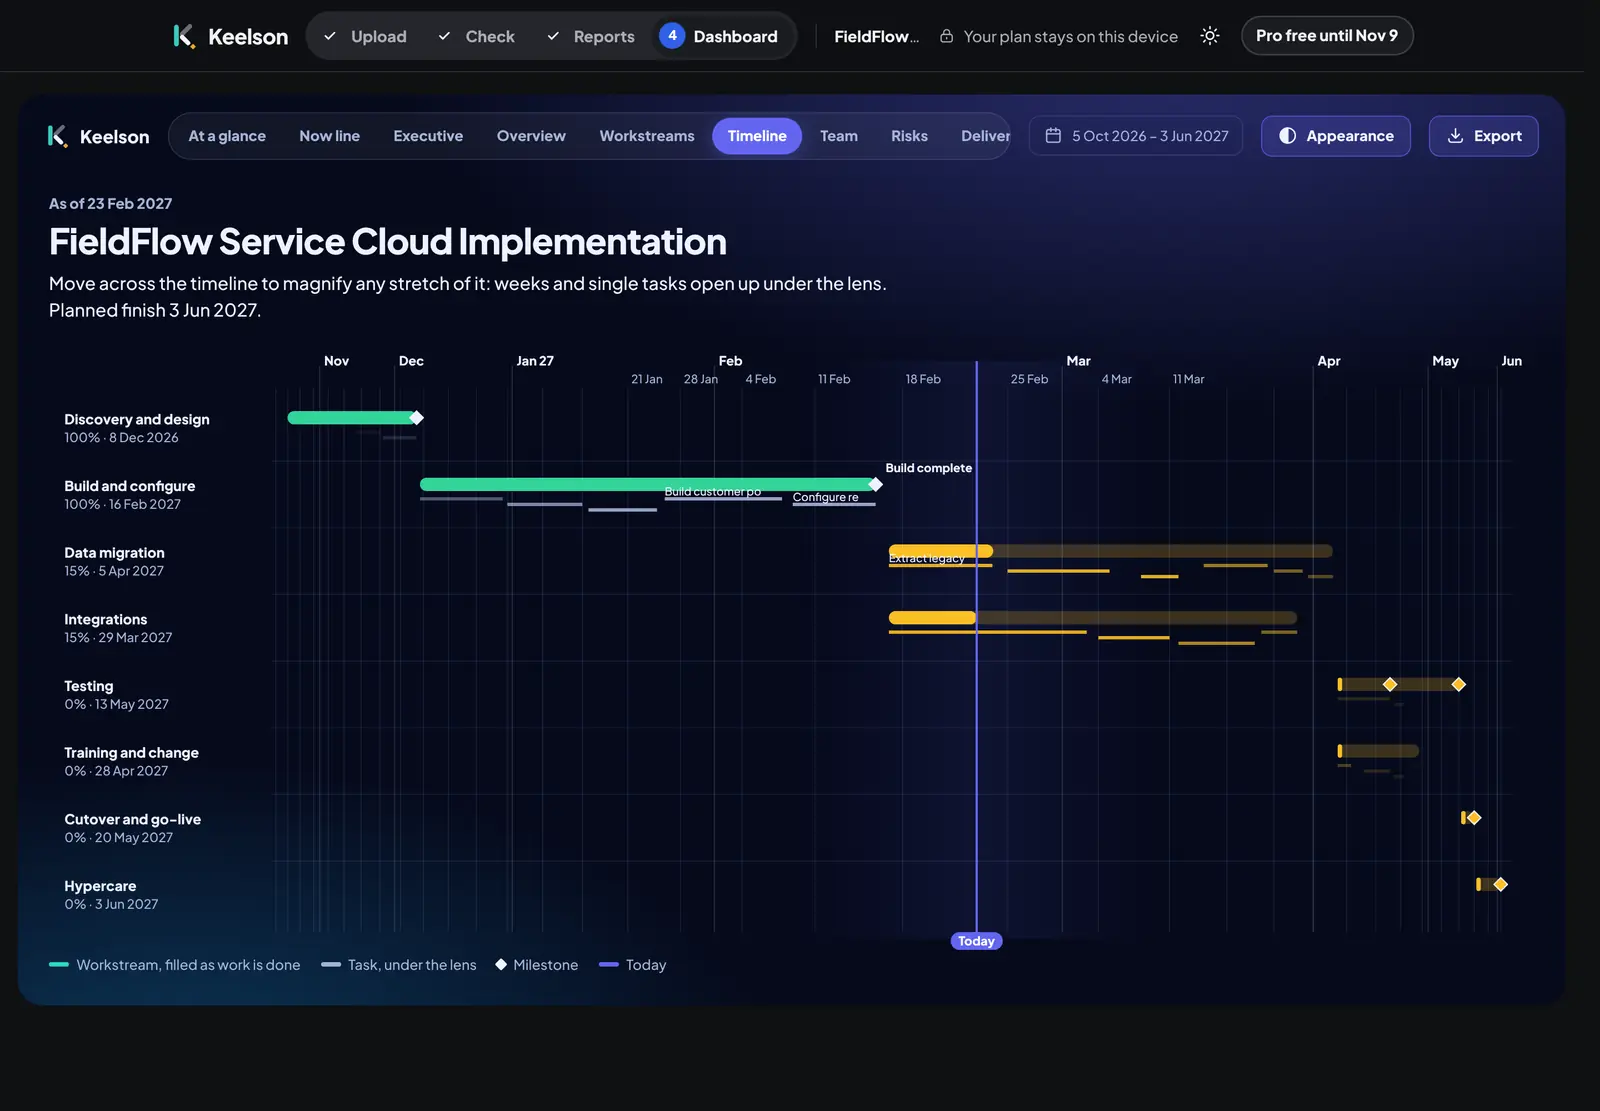
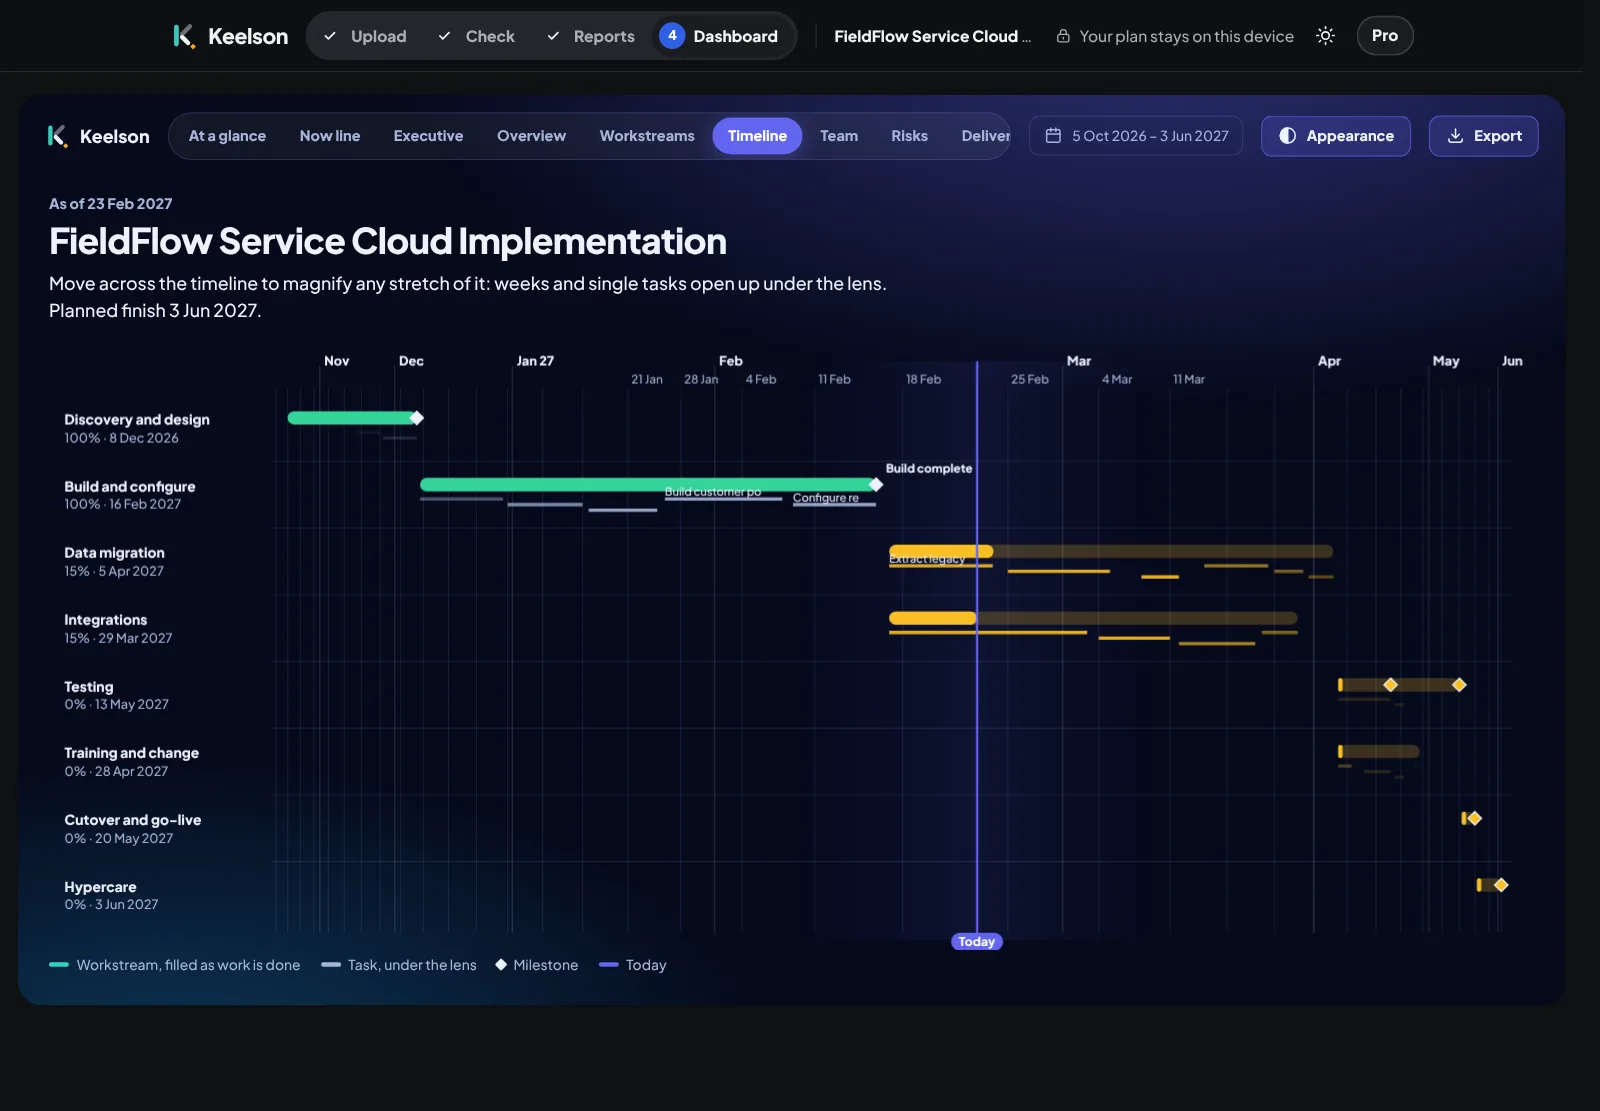
Publish fb00e3f: Timeline hero, accuracy line, checkable Pro card copy
Claude-Session: https://claude.ai/code/session_01Amkb8PZTuTJQyQ7z1RvTP5

diff --git a/index.html b/index.html
@@ -125,13 +125,14 @@
       <a class="btn btn-secondary btn-lg" href="samples/keelson-sample-onepager.pdf" target="_blank" rel="noopener" type="application/pdf">See a sample report</a>
     </div>
     <p class="hero-trust">Free · No sign-up · Your file stays on your computer<span class="open-note" data-open hidden></span></p>
+    <p class="hero-trust"><a href="#messy">Checked on 621,858 messy plans, figure for figure</a></p>
   </div>
   <div class="wrap">
     <div class="x-app" id="x-app">
       <div class="x-bar" aria-hidden="true"><b></b><b></b><b></b><span>keelson.co.in/app</span></div>
       <div class="x-screen">
         <div class="x-drop" aria-hidden="true"><div><b>Drop your plan here</b>.xlsx, .csv or .tsv</div></div>
-        <div class="x-shot"><img class="th-l" src="img/home/dash-glance-light.webp" width="1600" height="1111" alt="Keelson Dashboard for the fictional FieldFlow sample: 48% done, finish 3 Jun 2027, every task as a coloured bar"><img class="th-d" src="img/home/dash-glance-dark.webp" width="1600" height="1111" alt="Keelson Dashboard for the fictional FieldFlow sample: 48% done, finish 3 Jun 2027, every task as a coloured bar"></div>
+        <div class="x-shot"><img class="th-l" src="img/home/dash-timeline-light.webp" width="1600" height="1111" alt="Keelson Dashboard timeline for the fictional FieldFlow sample: eight workstreams from Nov to Jun, build complete, data migration and integrations 15% done, finish 3 Jun 2027"><img class="th-d" src="img/home/dash-timeline-dark.webp" width="1600" height="1111" alt="Keelson Dashboard timeline for the fictional FieldFlow sample: eight workstreams from Nov to Jun, build complete, data migration and integrations 15% done, finish 3 Jun 2027"></div>
         <div class="x-file" aria-hidden="true"><i></i>Portal_plan_wk43.xlsx</div>
         <svg class="x-cur" viewBox="0 0 20 20" aria-hidden="true"><path d="M3 1 L3 16 L7 12 L10 19 L12.5 18 L9.5 11 L15.5 11 Z" fill="var(--ink)" stroke="var(--bg)" stroke-width="1.2"/></svg>
       </div>
@@ -176,11 +177,11 @@
         <svg viewBox="0 0 200 90" aria-hidden="true"><polyline class="x-tline" points="4,84 44,84 84,66 124,54 164,54 196,12" fill="none" stroke="var(--accent)" stroke-width="4" stroke-linejoin="round"/></svg></div>
       <div class="x-tile s2 x-rv" id="forecast"><div><h3>When will it finish</h3><p>A range from your own completed tasks. Checked on 1,000 simulated projects (P80 held in 81%, P50 in 53%). <a href="#faq-forecast">How it works</a></p></div>
         <div><div class="x-range" aria-hidden="true"><s></s><i style="left:30%"></i><i style="left:76%"></i></div><div class="x-pp"><div><b>9 Jul</b><span>P50 · 50/50 date</span></div><div><b>23 Jul</b><span>P80 · 8 in 10</span></div></div></div></div>
-      <div class="x-tile s2 x-rv"><div><h3>Reads messy files</h3><p>Tested on 621,858 damaged plans with known answers. Latest round: 51,167 of 51,168 gave the same report as the clean file.</p></div>
+      <div class="x-tile s2 x-rv" id="messy"><div><h3>Reads messy files</h3><p>Tested on 621,858 damaged plans with known answers. Latest round: 51,167 of 51,168 gave the same report as the clean file.<sup><a href="#n3" aria-label="Note 3">3</a></sup></p></div>
         <div class="x-messy" aria-hidden="true"><div class="gone"><span>Total</span><span>48%</span></div><div class="gone"><span>Notes: see PMO pack</span><span></span></div><div><span>✅ Done</span><span class="ok">counted as done</span></div></div></div>
       <div class="x-tile s2 x-rv"><div><h3>Send it in the format they read</h3><p>With your logo and brand colour.</p></div><div class="x-fmt"><span class="x-file-ic f-pdf"><svg viewBox="0 0 48 60" aria-hidden="true"><path d="M6 2h26l14 14v38a4 4 0 0 1-4 4H6a4 4 0 0 1-4-4V6a4 4 0 0 1 4-4z" fill="var(--surface)" stroke="var(--line-strong)" stroke-width="2"/><path d="M32 2v10a4 4 0 0 0 4 4h10" fill="none" stroke="var(--line-strong)" stroke-width="2"/><rect x="-2" y="30" width="36" height="16" rx="3" class="tag"/><text x="16" y="42" text-anchor="middle">PDF</text></svg><b>PDF</b></span><span class="x-file-ic f-doc"><svg viewBox="0 0 48 60" aria-hidden="true"><path d="M6 2h26l14 14v38a4 4 0 0 1-4 4H6a4 4 0 0 1-4-4V6a4 4 0 0 1 4-4z" fill="var(--surface)" stroke="var(--line-strong)" stroke-width="2"/><path d="M32 2v10a4 4 0 0 0 4 4h10" fill="none" stroke="var(--line-strong)" stroke-width="2"/><rect x="-2" y="30" width="36" height="16" rx="3" class="tag"/><text x="16" y="42" text-anchor="middle">DOCX</text></svg><b>Word</b></span><span class="x-file-ic f-ppt"><svg viewBox="0 0 48 60" aria-hidden="true"><path d="M6 2h26l14 14v38a4 4 0 0 1-4 4H6a4 4 0 0 1-4-4V6a4 4 0 0 1 4-4z" fill="var(--surface)" stroke="var(--line-strong)" stroke-width="2"/><path d="M32 2v10a4 4 0 0 0 4 4h10" fill="none" stroke="var(--line-strong)" stroke-width="2"/><rect x="-2" y="30" width="36" height="16" rx="3" class="tag"/><text x="16" y="42" text-anchor="middle">PPTX</text></svg><b>PowerPoint</b></span></div></div>
       <div class="x-tile s6 x-night x-rv"><div><h3>A dashboard to present on the big screen</h3><p>Eleven screens from the same plan: at a glance, timeline, workstreams, team, risks. <a href="dashboard.html">See the Dashboard</a></p></div>
-        <div class="x-dash"><img src="img/home/dash-timeline-dark.webp" width="1600" height="1111" alt="Keelson Dashboard timeline screen in dark mode, fictional FieldFlow sample" loading="lazy"></div></div>
+        <div class="x-dash"><img src="img/home/dash-glance-dark.webp" width="1600" height="1111" alt="Keelson Dashboard at a glance in dark mode, fictional FieldFlow sample: 48% done, finish 3 Jun 2027" loading="lazy"></div></div>
     </div>
   </div>
 </section>
@@ -233,9 +234,9 @@
         </ul>
       </article>
       <article class="plan pop">
-        <h3>Pro <span class="chip chip-brand">Best for consultants</span></h3><p class="for">Your weekly report in 10 minutes, every week.</p>
+        <h3>Pro <span class="chip chip-brand">Best for consultants</span></h3><p class="for">For the status report you send every week</p>
         <p class="price"><b data-m="$12" data-y="$8">$8</b><span>/ month</span></p><p class="price-note" data-m="billed monthly" data-y="billed yearly ($96)">billed yearly ($96)</p>
-        <p class="value">Less than an hour of your time a month.</p>
+        <p class="value">Your plan never leaves your browser.</p>
         <a class="btn btn-primary" href="mailto:support@keelson.co.in?subject=Keelson%20Pro%20waitlist" data-buy="proYearly" data-buy-m="proMonthly" data-buy-y="proYearly">Join the Pro waitlist</a>
         <p class="buy-note" data-when="sale" data-for="proMonthly proYearly" hidden>Invoice for expense claims · Cancel any time · <a class="nb" href="legal.html#refunds">14-day refund</a></p>
         <ul>
@@ -285,6 +286,7 @@
 <div class="wrap notes" aria-label="Notes"><ol>
   <li id="n1">Sample company, people and project are fictional. The figures in the product views on this page are what Keelson calculates from the fictional FieldFlow sample's six weekly exports (19 Jan to 23 Feb 2027), the same sample the app and the Quick check open on.</li>
   <li id="n2">The dashboard is checked on each build by pasting the same plan in five shapes (MS Project export, MS Project text paste, Jira CSV, a client tracker with title rows and day-first dates, and Keelson's own plan) and comparing every figure with an independent reference calculation. Up to 1,000 rows. Working days are Monday to Friday; “wd” means working days.</li>
+  <li id="n3">The messy plans are generated, not customer files. We start from plans whose answers are known (the five shapes in note 2, edge cases and exports from 12 tools) and damage them the way real files get damaged: renamed and misspelt headers, Total rows, merged cells, decoy columns, eight date formats, six languages. A plan passes only if every report figure matches the clean file exactly: rows, % done, finish, baseline variance, overdue tasks, milestones, RAG and workstreams. One known case still fails: a renamed header with a line break next to a look-alike column.</li>
 </ol></div>
 </main>
 
